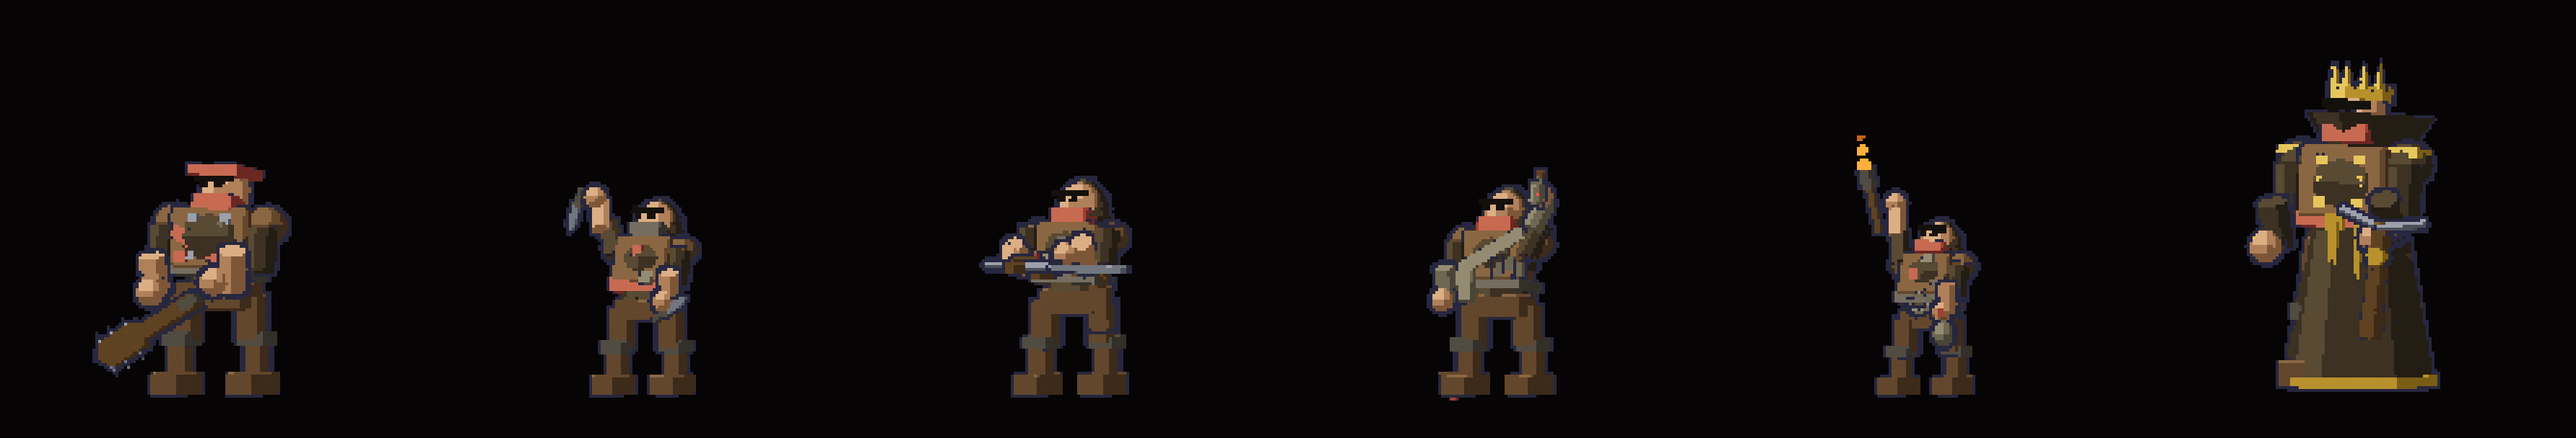
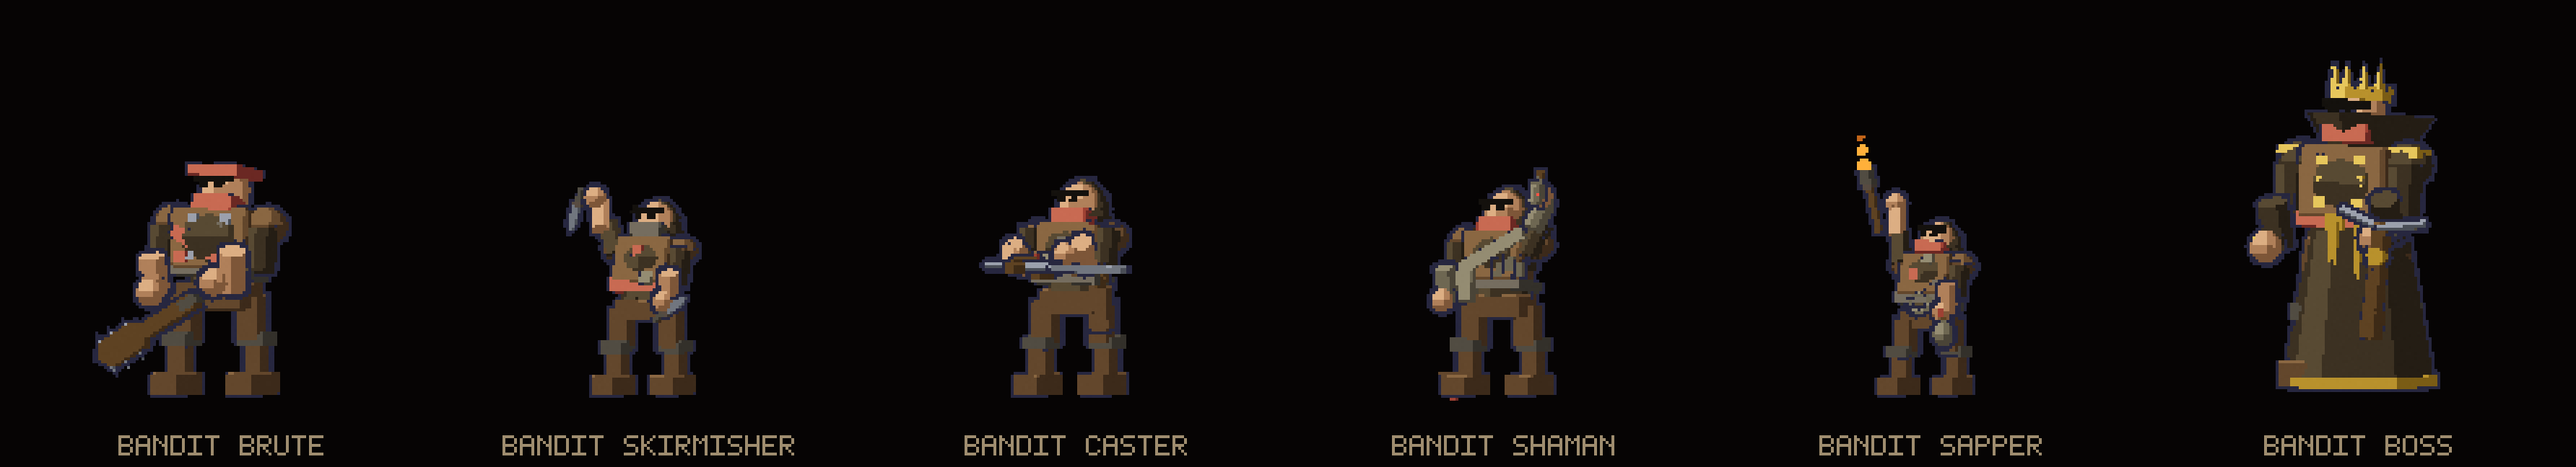
Label every contact-sheet cell with its roster key
Judging the roster surfaced the gap: three mender rarity variants were
indistinguishable side by side, so there was no way to say which one needed
the edit. The sheets showed that sprites differ without naming them.

Adds pixelfont.py, a 5x7 bitmap font as data. Blender's blf draws antialiased
glyphs, and a soft label on a sheet built to judge hard-edged sprites reads as
a rendering fault rather than as writing. Labels are stamped into the 1x sheet
before the nearest-neighbour upscale, so label pixels come out exactly the size
of sprite pixels. Long keys wrap at the underscores.

Every row reserves one label band, so the shared ground line survives a key
that wraps next to one that does not.

Republishes the 10 contact sheets. The 83 sprites are pixel-identical to the
committed ones and are deliberately not rewritten.

diff --git a/tools/blender/pixelfont.py b/tools/blender/pixelfont.py
@@ -1,0 +1,138 @@
+"""A 5x7 bitmap font, drawn into a numpy RGBA buffer.
+
+Contact sheets need every cell named, and there is no text renderer available in
+a headless Blender that produces HARD pixels. Blender's `blf` draws antialiased
+glyphs into a GPU offscreen buffer, which is the one thing this whole pipeline
+exists to avoid: a soft label on a sheet whose purpose is judging hard-edged
+sprites reads as a rendering fault rather than as writing.
+
+So the font is data. Each glyph is seven rows of five characters, '#' for ink.
+Drawn at scale 1 into the 1x sheet and then carried through the same
+nearest-neighbour upscale as the sprites, label pixels end up exactly the size of
+sprite pixels. That is why labels are drawn BEFORE the upscale, not after.
+
+Uppercase, digits, space and hyphen only. Roster keys are lowercase with
+underscores, and `text_lines()` handles the conversion.
+"""
+
+import numpy as np
+
+GLYPH_W = 5
+GLYPH_H = 7
+ADVANCE = GLYPH_W + 1      # one blank column between glyphs
+LINE_GAP = 2               # blank rows between stacked lines
+
+_RAW = {
+    "A": ".###.|#...#|#...#|#####|#...#|#...#|#...#",
+    "B": "####.|#...#|#...#|####.|#...#|#...#|####.",
+    "C": ".###.|#...#|#....|#....|#....|#...#|.###.",
+    "D": "####.|#...#|#...#|#...#|#...#|#...#|####.",
+    "E": "#####|#....|#....|####.|#....|#....|#####",
+    "F": "#####|#....|#....|####.|#....|#....|#....",
+    "G": ".###.|#...#|#....|#.###|#...#|#...#|.###.",
+    "H": "#...#|#...#|#...#|#####|#...#|#...#|#...#",
+    "I": "#####|..#..|..#..|..#..|..#..|..#..|#####",
+    "J": "..###|...#.|...#.|...#.|...#.|#..#.|.##..",
+    "K": "#...#|#..#.|#.#..|##...|#.#..|#..#.|#...#",
+    "L": "#....|#....|#....|#....|#....|#....|#####",
+    "M": "#...#|##.##|#.#.#|#...#|#...#|#...#|#...#",
+    "N": "#...#|##..#|#.#.#|#..##|#...#|#...#|#...#",
+    "O": ".###.|#...#|#...#|#...#|#...#|#...#|.###.",
+    "P": "####.|#...#|#...#|####.|#....|#....|#....",
+    "Q": ".###.|#...#|#...#|#...#|#.#.#|#..#.|.##.#",
+    "R": "####.|#...#|#...#|####.|#.#..|#..#.|#...#",
+    "S": ".####|#....|#....|.###.|....#|....#|####.",
+    "T": "#####|..#..|..#..|..#..|..#..|..#..|..#..",
+    "U": "#...#|#...#|#...#|#...#|#...#|#...#|.###.",
+    "V": "#...#|#...#|#...#|#...#|#...#|.#.#.|..#..",
+    "W": "#...#|#...#|#...#|#...#|#.#.#|##.##|#...#",
+    "X": "#...#|#...#|.#.#.|..#..|.#.#.|#...#|#...#",
+    "Y": "#...#|#...#|.#.#.|..#..|..#..|..#..|..#..",
+    "Z": "#####|....#|...#.|..#..|.#...|#....|#####",
+    "0": ".###.|#...#|#..##|#.#.#|##..#|#...#|.###.",
+    "1": "..#..|.##..|..#..|..#..|..#..|..#..|.###.",
+    "2": ".###.|#...#|....#|...#.|..#..|.#...|#####",
+    "3": "#####|...#.|..#..|...#.|....#|#...#|.###.",
+    "4": "...#.|..##.|.#.#.|#..#.|#####|...#.|...#.",
+    "5": "#####|#....|####.|....#|....#|#...#|.###.",
+    "6": "..##.|.#...|#....|####.|#...#|#...#|.###.",
+    "7": "#####|....#|...#.|..#..|.#...|.#...|.#...",
+    "8": ".###.|#...#|#...#|.###.|#...#|#...#|.###.",
+    "9": ".###.|#...#|#...#|.####|....#|...#.|.##..",
+    "-": ".....|.....|.....|#####|.....|.....|.....",
+    " ": ".....|.....|.....|.....|.....|.....|.....",
+}
+
+# "#" -> True, as (7, 5) boolean masks, rows top-down.
+GLYPHS = {ch: np.array([[c == "#" for c in row] for row in spec.split("|")],
+                       dtype=bool)
+          for ch, spec in _RAW.items()}
+
+MISSING = GLYPHS[" "]
+
+
+def text_width(s):
+    """Pixel width of `s` at scale 1, without the trailing inter-glyph column."""
+    return max(0, len(s) * ADVANCE - 1)
+
+
+def text_lines(key, max_width):
+    """Roster key -> uppercase display lines that each fit inside `max_width`.
+
+    Wraps on the underscores, which are the only word boundary a key has. A
+    single word longer than the cell is left overlong rather than split: a
+    truncated key is worse than a label that runs wide, because the whole point
+    is being able to name the sprite you want changed.
+    """
+    words = key.replace("_", " ").upper().split()
+    if not words:
+        return []
+    lines, cur = [], words[0]
+    for w in words[1:]:
+        trial = cur + " " + w
+        if text_width(trial) <= max_width:
+            cur = trial
+        else:
+            lines.append(cur)
+            cur = w
+    lines.append(cur)
+    return lines
+
+
+def block_height(n_lines):
+    """Pixel height of an `n_lines` label block at scale 1."""
+    if n_lines <= 0:
+        return 0
+    return n_lines * GLYPH_H + (n_lines - 1) * LINE_GAP
+
+
+def draw_text(canvas, text, x, y_bottom, rgba):
+    """Stamp `text` into an RGBA float array, bottom-left corner at (x, y_bottom).
+
+    `canvas` follows Blender's pixel convention where row 0 is the BOTTOM row, so
+    glyph row 0 (the top of the letter) is written at the highest y. Pixels
+    outside the canvas are dropped rather than wrapped.
+    """
+    h, w = canvas.shape[:2]
+    ink = np.array(rgba, dtype=np.float32)
+    y_top = y_bottom + GLYPH_H - 1
+    for i, ch in enumerate(text):
+        mask = GLYPHS.get(ch, MISSING)
+        gx = x + i * ADVANCE
+        for row in range(GLYPH_H):
+            y = y_top - row
+            if y < 0 or y >= h:
+                continue
+            for col in range(GLYPH_W):
+                if not mask[row, col]:
+                    continue
+                px = gx + col
+                if 0 <= px < w:
+                    canvas[y, px] = ink
+
+
+def draw_block(canvas, lines, cx, y_bottom, rgba):
+    """Draw `lines` centred on `cx`, the lowest line sitting on `y_bottom`."""
+    for i, line in enumerate(reversed(lines)):
+        y = y_bottom + i * (GLYPH_H + LINE_GAP)
+        draw_text(canvas, line, int(cx - text_width(line) // 2), y, rgba)

diff --git a/tools/blender/compose_contact.py b/tools/blender/compose_contact.py
@@ -25,14 +25,18 @@ HERE = os.path.dirname(os.path.abspath(__file__))
 if HERE not in sys.path:
     sys.path.append(HERE)
 import pixelrig as P
+import pixelfont as F
 import roster
 importlib.reload(P)
+importlib.reload(F)
 importlib.reload(roster)
 OUT = P.out_dir()
 
 PAD = 4                 # blank pixels between cells, so outlines never touch
 BG = "#2a2320"          # the dark board the sheets are judged against
 COLS = 6                # a family is six, so a family is one row
+INK = "#cfc4b0"         # label colour: legible on BG without competing with art
+LABEL_GAP = 3           # blank rows between a figure's feet and its name
 
 
 def load_rgba(path):
@@ -55,8 +59,15 @@ def save_rgba(arr, path):
 
 
 def sheet(assets, path, cols=COLS, upscale=4):
-    """Tile `assets` into a grid. Missing renders are skipped, not blanked, so a
-    half-finished family still produces a judgeable sheet."""
+    """Tile `assets` into a grid, each cell captioned with its roster key. Missing
+    renders are skipped, not blanked, so a half-finished family still produces a
+    judgeable sheet.
+
+    Labels are stamped into the 1x canvas rather than onto the upscale, so label
+    pixels come out the same size as sprite pixels. Without a name under every
+    figure the sheet shows that two sprites differ but gives no way to SAY which
+    one needs the edit, and near-identical rarity variants are exactly where that
+    bites (user, 2026-08-01)."""
     tiles = []
     for a in assets:
         p = os.path.join(OUT, a.out)
@@ -68,9 +79,17 @@ def sheet(assets, path, cols=COLS, upscale=4):
     cell = max(max(t.shape[0], t.shape[1]) for _, t in tiles)
     cols = min(cols, len(tiles))
     rows = (len(tiles) + cols - 1) // cols
+
+    # One label band height for every row, so the grid stays regular and the
+    # ground lines stay shared even when one key wraps and its neighbours do not.
+    labels = [F.text_lines(a.key, cell) for a, _ in tiles]
+    band = LABEL_GAP + F.block_height(max(len(l) for l in labels))
+
+    step = cell + band + PAD
     W = cols * (cell + PAD) + PAD
-    H = rows * (cell + PAD) + PAD
+    H = rows * step + PAD
     canvas = np.zeros((H, W, 4), dtype=np.float32)
+    ink = P.hexcol(INK)
 
     for i, (a, t) in enumerate(tiles):
         r, c = i // cols, i % cols
@@ -78,9 +97,10 @@ def sheet(assets, path, cols=COLS, upscale=4):
         # numpy row 0 is the BOTTOM row in Blender's pixel buffer, so counting
         # rows from the bottom of the canvas is what lands every figure on one
         # ground line.
-        y = (rows - 1 - r) * (cell + PAD) + PAD
-        x = c * (cell + PAD) + PAD + (cell - w) // 2
-        canvas[y:y + h, x:x + w] = t
+        y = (rows - 1 - r) * step + PAD
+        x = c * (cell + PAD) + PAD
+        F.draw_block(canvas, labels[i], x + cell / 2, y, ink)
+        canvas[y + band:y + band + h, x + (cell - w) // 2:x + (cell - w) // 2 + w] = t
 
     save_rgba(canvas, path)
     P.upscale_nearest(path, path.replace(".png", "_big.png"), upscale, bg=BG)

diff --git a/tools/blender/README.md b/tools/blender/README.md
@@ -30,6 +30,12 @@ It launches Blender headless once per asset, logs each to `out/logs/`, and ends
 by writing the contact sheets. About 2.5 seconds per sprite. Exit code is the
 number of failures. Set `BLENDER_EXE` if Blender is not at the default path.
 
+**Every contact-sheet cell is captioned with its roster key** (user, 2026-08-01:
+three mender rarity variants were indistinguishable on the sheet, so there was no
+way to SAY which one needed the edit). Labels are stamped into the 1x sheet before
+the upscale, which is what makes label pixels the same size as sprite pixels;
+`pixelfont.py` explains why the font is data rather than a call to Blender's `blf`.
+
 **The interactive way**, for building something new with the viewport in front of
 you. Blender open, MCP add-on connected. On a machine that has never had it,
 set the connection up first:
@@ -108,6 +114,7 @@ DEPICTS; the roster only records how it gets built.
 | `roster.py` | the manifest: 83 assets, their builders, cells and tiers |
 | `render_all.py` | headless batch driver, one Blender process per asset |
 | `compose_contact.py` | per-group contact sheets, written at the end of every run |
+| `pixelfont.py` | 5x7 bitmap font, so sheet labels are hard pixels like the art |
 
 Still here from the pilot: `build_scene.py`, `compose_battle.py`,
 `compose_lineup.py`, `build_attack.py` (attack sheets for two characters),
